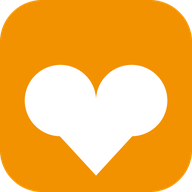
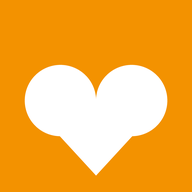
Arregla la icona d'iOS (quadrat opac) i la numeracio de passos
- Les icones ara son quadrats RGB opacs sense cantonades arrodonides
  ni transparencia: aixo evitava que iOS mostres el quadrat gris
  amb lletra (fallback quan no pot llegir be la imatge)
- Corregeix 'Pas X de 3': Instagram=Pas1, les preguntes Si/No
  (incloent 'Segur???')=Pas2, i totes dues pantalles finals
  ('No em rendire' i la del gordo)=Pas3
- Les 3 franges de progres ara es pinten be segons el pas real

Claude-Session: https://claude.ai/code/session_01JvETAir78XwLGxBo1tzvY6

diff --git a/index.html b/index.html
@@ -310,8 +310,8 @@
   document.getElementById('year').textContent=new Date().getFullYear();
 
   var ALL_STEPS=['step1','step2','step3','step4','step4b','step4c','step5'];
-  var LABELS={step3:'Pas 1 de 3',step4:'Pas 2 de 3',step4b:'Pas 2 de 3',step4c:'Pas 2 de 3',step5:'Pas 3 de 3'};
-  var DOTS={step3:1,step4:2,step4b:2,step4c:2,step5:3};
+  var LABELS={step3:'Pas 1 de 3',step4:'Pas 2 de 3',step4b:'Pas 2 de 3',step4c:'Pas 3 de 3',step5:'Pas 3 de 3'};
+  var DOTS={step3:1,step4:2,step4b:2,step4c:3,step5:3};
 
   function setDots(n){
     for(var i=1;i<=3;i++){
